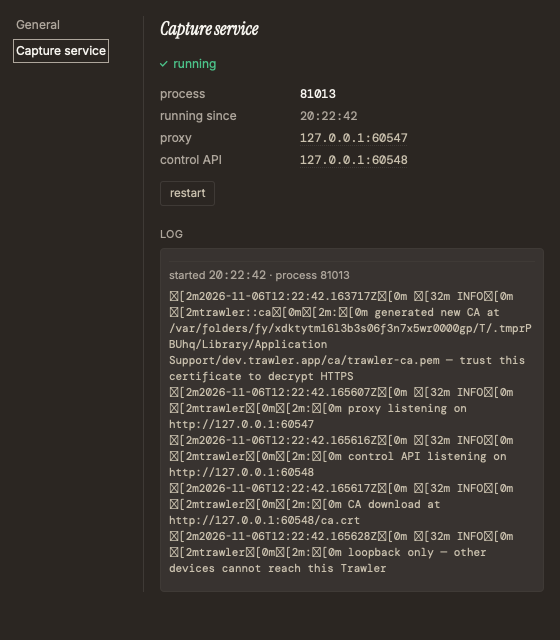
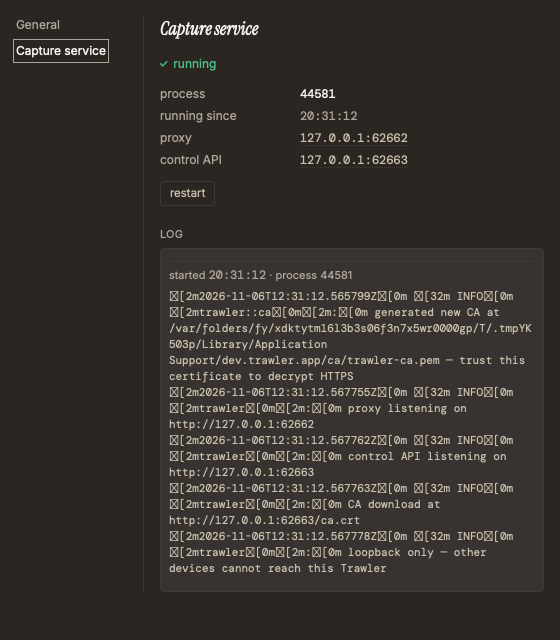
E-PRORELEASE.W5 review round 1: the screenshot run deletes the shots it takes before each launch (a skipped shot no longer passes on the committed file; hand-captured ones stay) and launches pnpm through walkthrough's helpers; a fenced # line is no heading, checkboxes need options, a failed harness 

diff --git a/ui/e2e/screenshots/screenshots.conf.ts b/ui/e2e/screenshots/screenshots.conf.ts
@@ -79,14 +79,19 @@ export const config: WebdriverIO.Config = {
       proxy: OURS,
     });
     if (!attached) return;
-    const ports = await startCore();
-    const reach = await fetch(`${ports.control}/front/reach`, {
-      method: "POST",
-      headers: { "content-type": "application/json" },
-      body: JSON.stringify([ETHERNET]),
-    });
-    if (!reach.ok) throw new Error(`harness /front/reach: ${reach.status}`);
-    process.env.TRAWLER_API = ports.front;
+    try {
+      const ports = await startCore();
+      const reach = await fetch(`${ports.control}/front/reach`, {
+        method: "POST",
+        headers: { "content-type": "application/json" },
+        body: JSON.stringify([ETHERNET]),
+      });
+      if (!reach.ok) throw new Error(`harness /front/reach: ${reach.status}`);
+      process.env.TRAWLER_API = ports.front;
+    } catch (failed) {
+      harness?.kill();
+      throw failed;
+    }
   },
   onComplete: async () => {
     if (!attached) return;

diff --git a/xtask/src/screenshots.rs b/xtask/src/screenshots.rs
@@ -1,5 +1,5 @@
+use super::walkthrough::{pnpm, required};
 use std::path::{Path, PathBuf};
-use std::process::Command;
 
 pub const OUT: &str = ".github/screenshots";
 
@@ -33,6 +33,21 @@ pub fn missing_shots(out: &Path, shots: &[&str]) -> Vec<String> {
         .collect()
 }
 
+// The committed shots sit where the run writes, so a shot the spec skipped
+// would otherwise pass on last run's file.
+pub fn clear_shots(out: &Path, shots: &[&str]) -> Result<(), String> {
+    for shot in shots {
+        let path = out.join(format!("{shot}.png"));
+        match std::fs::remove_file(&path) {
+            Err(e) if e.kind() != std::io::ErrorKind::NotFound => {
+                return Err(format!("{}: {e}", path.display()));
+            }
+            _ => {}
+        }
+    }
+    Ok(())
+}
+
 fn home_dir() -> Result<PathBuf, String> {
     std::env::var_os("HOME").map(PathBuf::from).ok_or("HOME is not set".to_string())
 }
@@ -44,34 +59,30 @@ fn launch(e2e: &Path, out: &Path, name: &str) -> Result<(), String> {
     let home = tempfile::tempdir().map_err(|e| format!("a temp HOME: {e}"))?;
     let tool_home =
         |var: &str, dir: &str| std::env::var_os(var).unwrap_or_else(|| real.join(dir).into());
-    let status = Command::new("pnpm")
-        .args(["exec", "wdio", "run", "screenshots/screenshots.conf.ts"])
-        .current_dir(e2e)
-        .env("HOME", home.path())
-        .env("CARGO_HOME", tool_home("CARGO_HOME", ".cargo"))
-        .env("RUSTUP_HOME", tool_home("RUSTUP_HOME", ".rustup"))
-        .env("TRAWLER_SCREENSHOTS_LAUNCH", name)
-        .env("TRAWLER_SCREENSHOTS_OUT", out)
-        .status()
-        .map_err(|e| format!("failed to launch pnpm (is it installed?): {e}"))?;
-    if status.success() {
-        Ok(())
-    } else {
-        Err(format!("the {name} screenshot launch failed"))
-    }
+    let home = home.path().to_string_lossy();
+    let cargo_home = tool_home("CARGO_HOME", ".cargo");
+    let rustup_home = tool_home("RUSTUP_HOME", ".rustup");
+    let out = out.to_string_lossy();
+    let env = [
+        ("HOME", &*home),
+        ("CARGO_HOME", &*cargo_home.to_string_lossy()),
+        ("RUSTUP_HOME", &*rustup_home.to_string_lossy()),
+        ("TRAWLER_SCREENSHOTS_LAUNCH", name),
+        ("TRAWLER_SCREENSHOTS_OUT", &*out),
+    ];
+    let conf = ["exec", "wdio", "run", "screenshots/screenshots.conf.ts"];
+    required(pnpm(e2e, &conf, &env), &format!("the {name} screenshot launch"))
 }
 
 pub fn run(ui: &Path, repo: &Path) -> Result<(i32, String), String> {
     let e2e = ui.join("e2e");
-    let installed = Command::new("pnpm").arg("install").current_dir(&e2e).status();
-    if !installed.is_ok_and(|status| status.success()) {
-        return Err("pnpm install in ui/e2e failed".to_string());
-    }
+    required(pnpm(&e2e, &["install"], &[]), "pnpm install in ui/e2e")?;
     super::walkthrough::scenario_build(ui)?;
     let out = repo.join(OUT);
     std::fs::create_dir_all(&out).map_err(|e| format!("{}: {e}", out.display()))?;
     let mut missing = Vec::new();
     for (name, shots) in LAUNCHES {
+        clear_shots(&out, shots)?;
         launch(&e2e, &out, name)?;
         missing.extend(missing_shots(&out, shots));
     }
@@ -85,6 +96,17 @@ pub fn run(ui: &Path, repo: &Path) -> Result<(i32, String), String> {
 #[cfg(test)]
 mod tests {
     use super::*;
+
+    #[test]
+    fn a_run_starts_without_the_shots_it_takes_and_keeps_the_hand_captured_ones() {
+        let dir = tempfile::tempdir().unwrap();
+        for name in ["a.png", "s8-hand.png"] {
+            std::fs::write(dir.path().join(name), PNG_SIGNATURE).unwrap();
+        }
+        clear_shots(dir.path(), &["a", "never-taken"]).unwrap();
+        assert_eq!(missing_shots(dir.path(), &["a"]), ["a.png"]);
+        assert!(dir.path().join("s8-hand.png").exists());
+    }
 
     #[test]
     fn a_shot_is_taken_only_when_its_png_exists() {

diff --git a/xtask/src/public_text.rs b/xtask/src/public_text.rs
@@ -59,11 +59,16 @@ pub fn slug(heading: &str) -> String {
 }
 
 pub fn anchors(markdown: &str) -> BTreeSet<String> {
-    markdown
-        .lines()
-        .filter(|line| line.starts_with('#'))
-        .map(|line| slug(line.trim_start_matches('#')))
-        .collect()
+    let mut fenced = false;
+    let mut found = BTreeSet::new();
+    for line in markdown.lines() {
+        if line.trim_start().starts_with("```") {
+            fenced = !fenced;
+        } else if !fenced && line.starts_with('#') {
+            found.insert(slug(line.trim_start_matches('#')));
+        }
+    }
+    found
 }
 
 pub fn broken_targets(repo: &Path, file: &str, text: &str) -> Vec<String> {
@@ -195,8 +200,10 @@ pub fn form_problems(file: &str, yaml: &str) -> Vec<String> {
             if field["attributes"]["label"].as_str().is_none() {
                 problems.push(format!("{file}: a {kind} without a label"));
             }
-            if kind == "dropdown" && field["attributes"]["options"].as_sequence().is_none() {
-                problems.push(format!("{file}: a dropdown without options"));
+            if ["dropdown", "checkboxes"].contains(&kind)
+                && field["attributes"]["options"].as_sequence().is_none()
+            {
+                problems.push(format!("{file}: a {kind} without options"));
             }
         }
     }
@@ -245,6 +252,20 @@ mod tests {
         assert_eq!(slug(" Contributing · Security · Licence"), "contributing--security--licence");
         assert_eq!(slug("Check your download"), "check-your-download");
         assert_eq!(slug("Why don't I see an app's traffic?"), "why-dont-i-see-an-apps-traffic");
+    }
+
+    #[test]
+    fn a_hash_line_inside_a_code_fence_is_no_heading() {
+        assert_eq!(
+            anchors("# Top\n```sh\n# a comment\n```\n## Next\n"),
+            BTreeSet::from(["top".to_string(), "next".to_string()])
+        );
+    }
+
+    #[test]
+    fn checkboxes_need_their_options() {
+        let form = "name: B\ndescription: d\nbody:\n  - type: checkboxes\n    id: c\n    attributes: {label: C}\n";
+        assert_eq!(form_problems("b.yml", form), ["b.yml: a checkboxes without options"]);
     }
 
     #[test]

diff --git a/xtask/src/walkthrough.rs b/xtask/src/walkthrough.rs
@@ -515,7 +515,7 @@ pub fn index_html(results: &[ReelResult<'_>]) -> String {
     page
 }
 
-fn pnpm(dir: &Path, args: &[&str], env: &[(&str, &str)]) -> Result<bool, String> {
+pub(crate) fn pnpm(dir: &Path, args: &[&str], env: &[(&str, &str)]) -> Result<bool, String> {
     let mut cmd = Command::new("pnpm");
     cmd.args(args).current_dir(dir);
     for (k, v) in env {
@@ -526,7 +526,7 @@ fn pnpm(dir: &Path, args: &[&str], env: &[(&str, &str)]) -> Result<bool, String>
         .map_err(|e| format!("failed to launch pnpm (is it installed?): {e}"))
 }
 
-fn required(ok: Result<bool, String>, what: &str) -> Result<(), String> {
+pub(crate) fn required(ok: Result<bool, String>, what: &str) -> Result<(), String> {
     if ok? {
         Ok(())
     } else {
